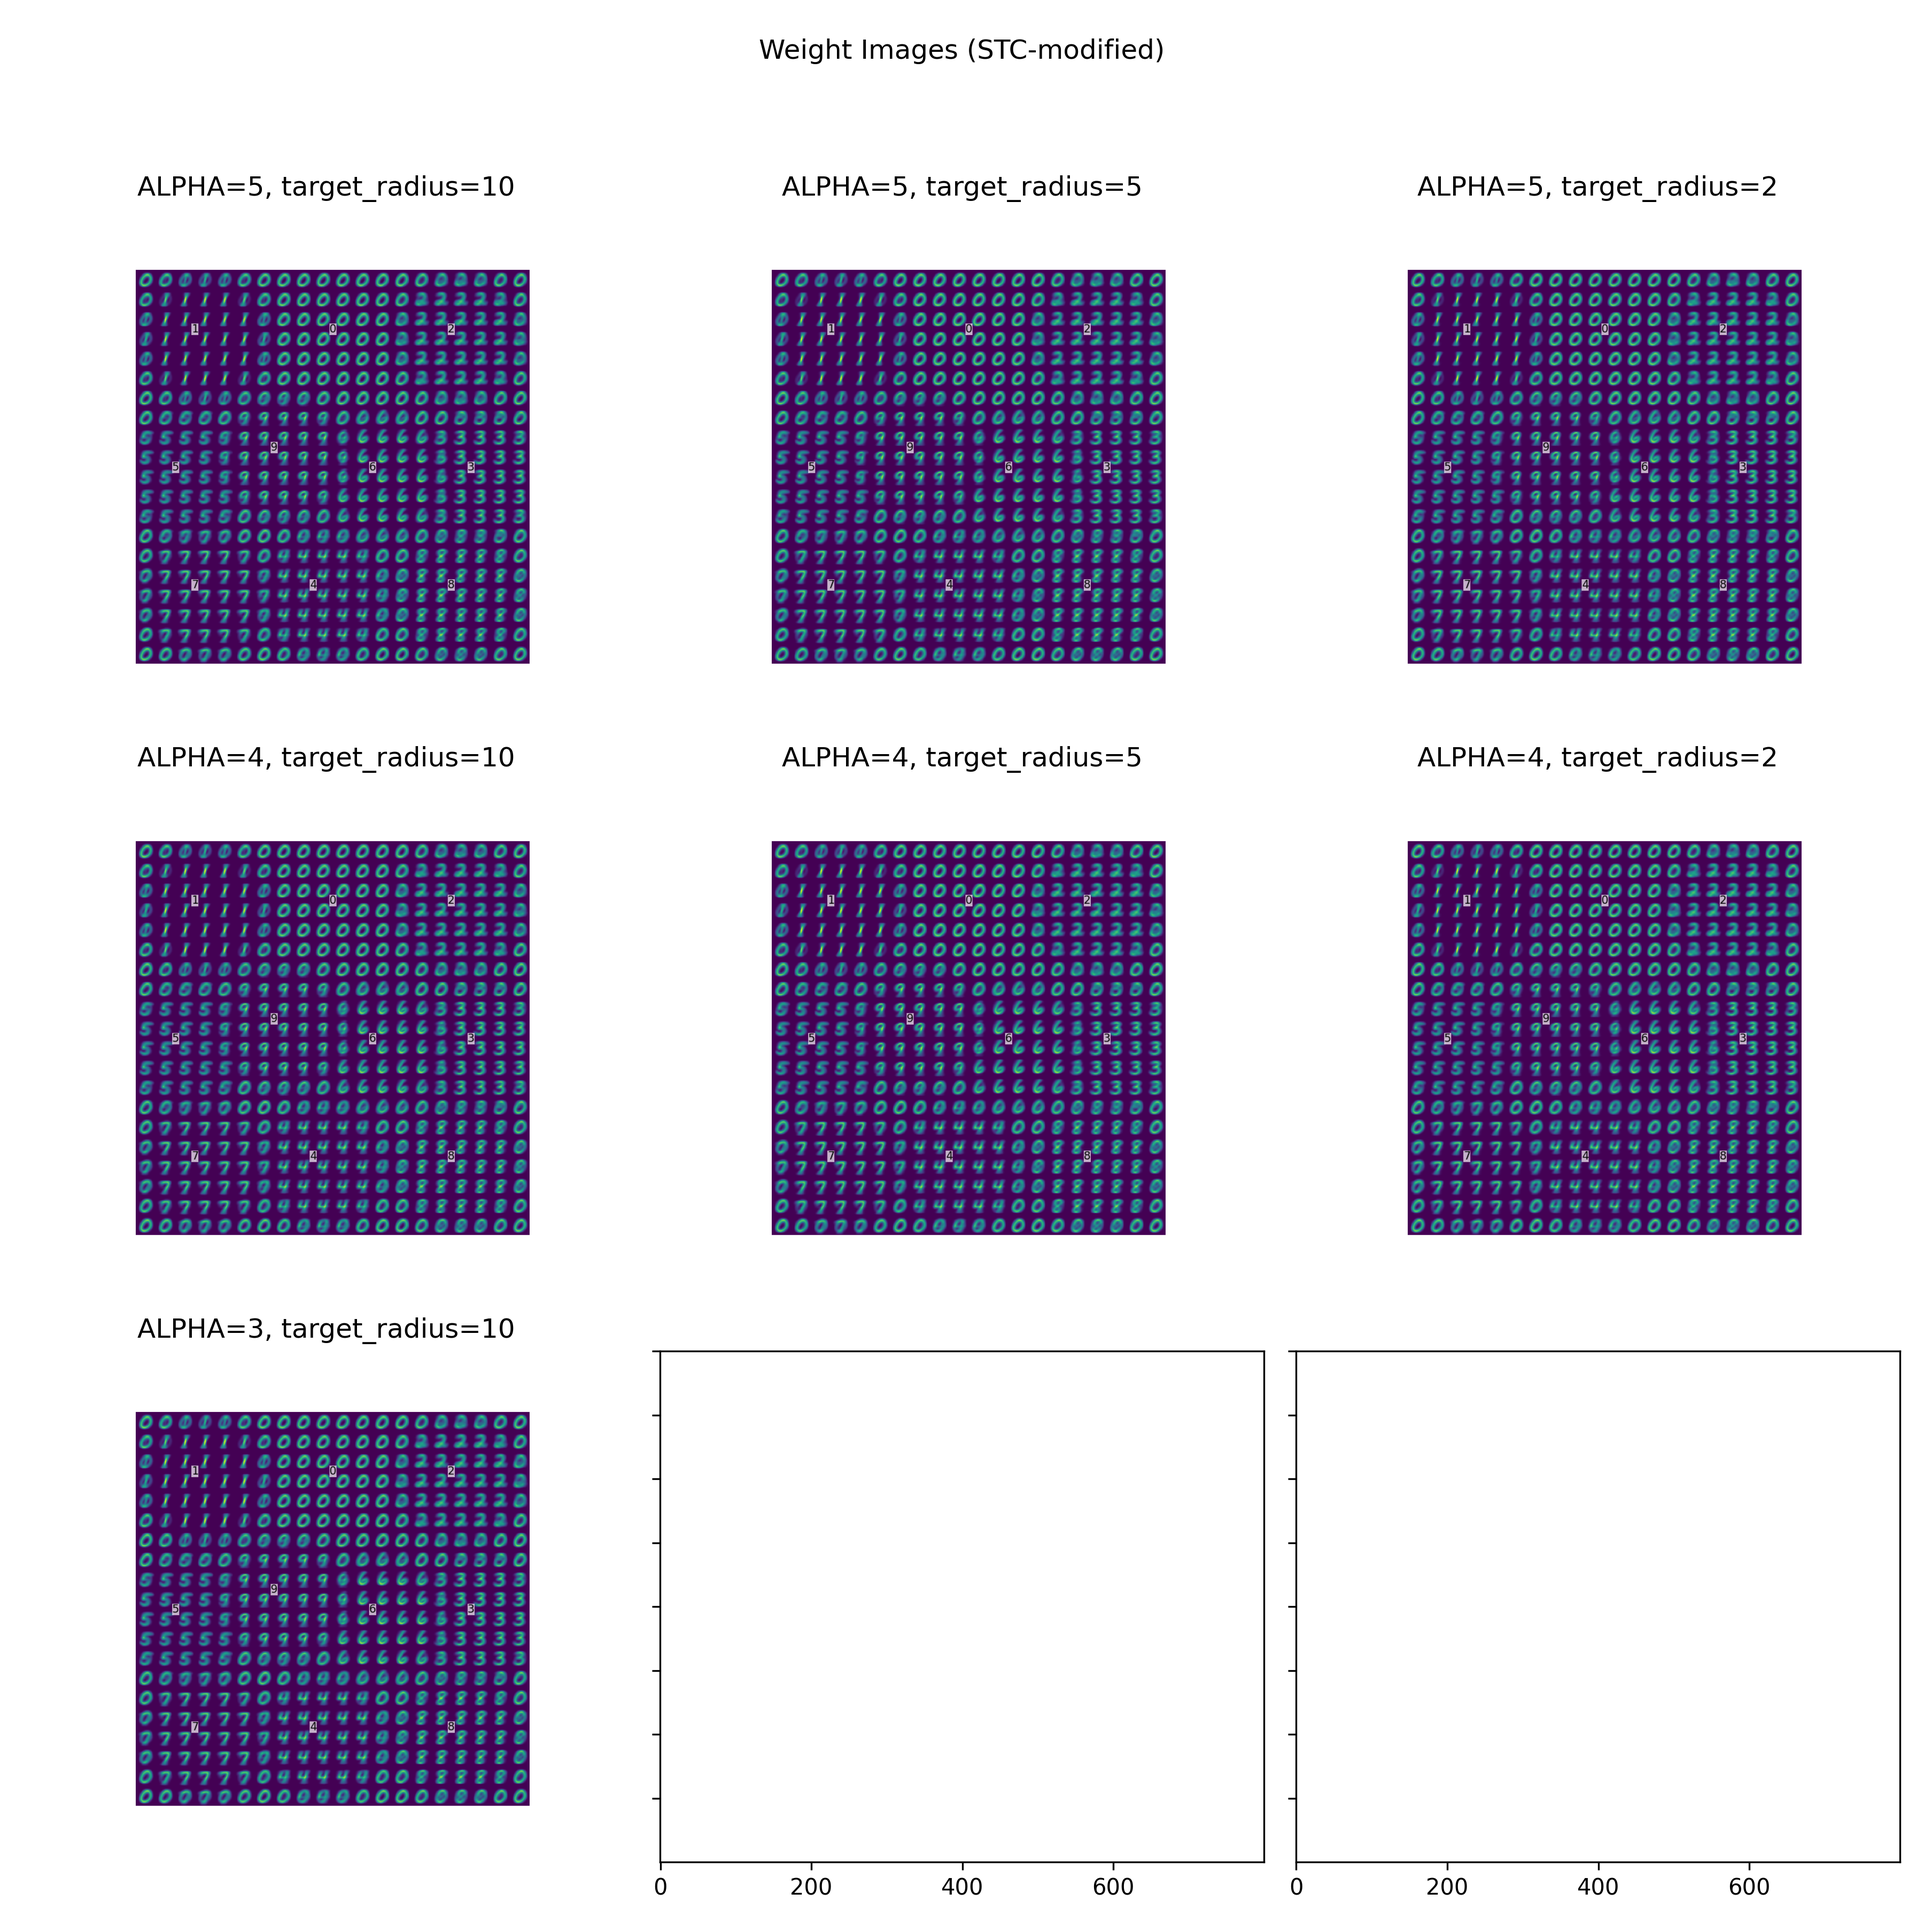
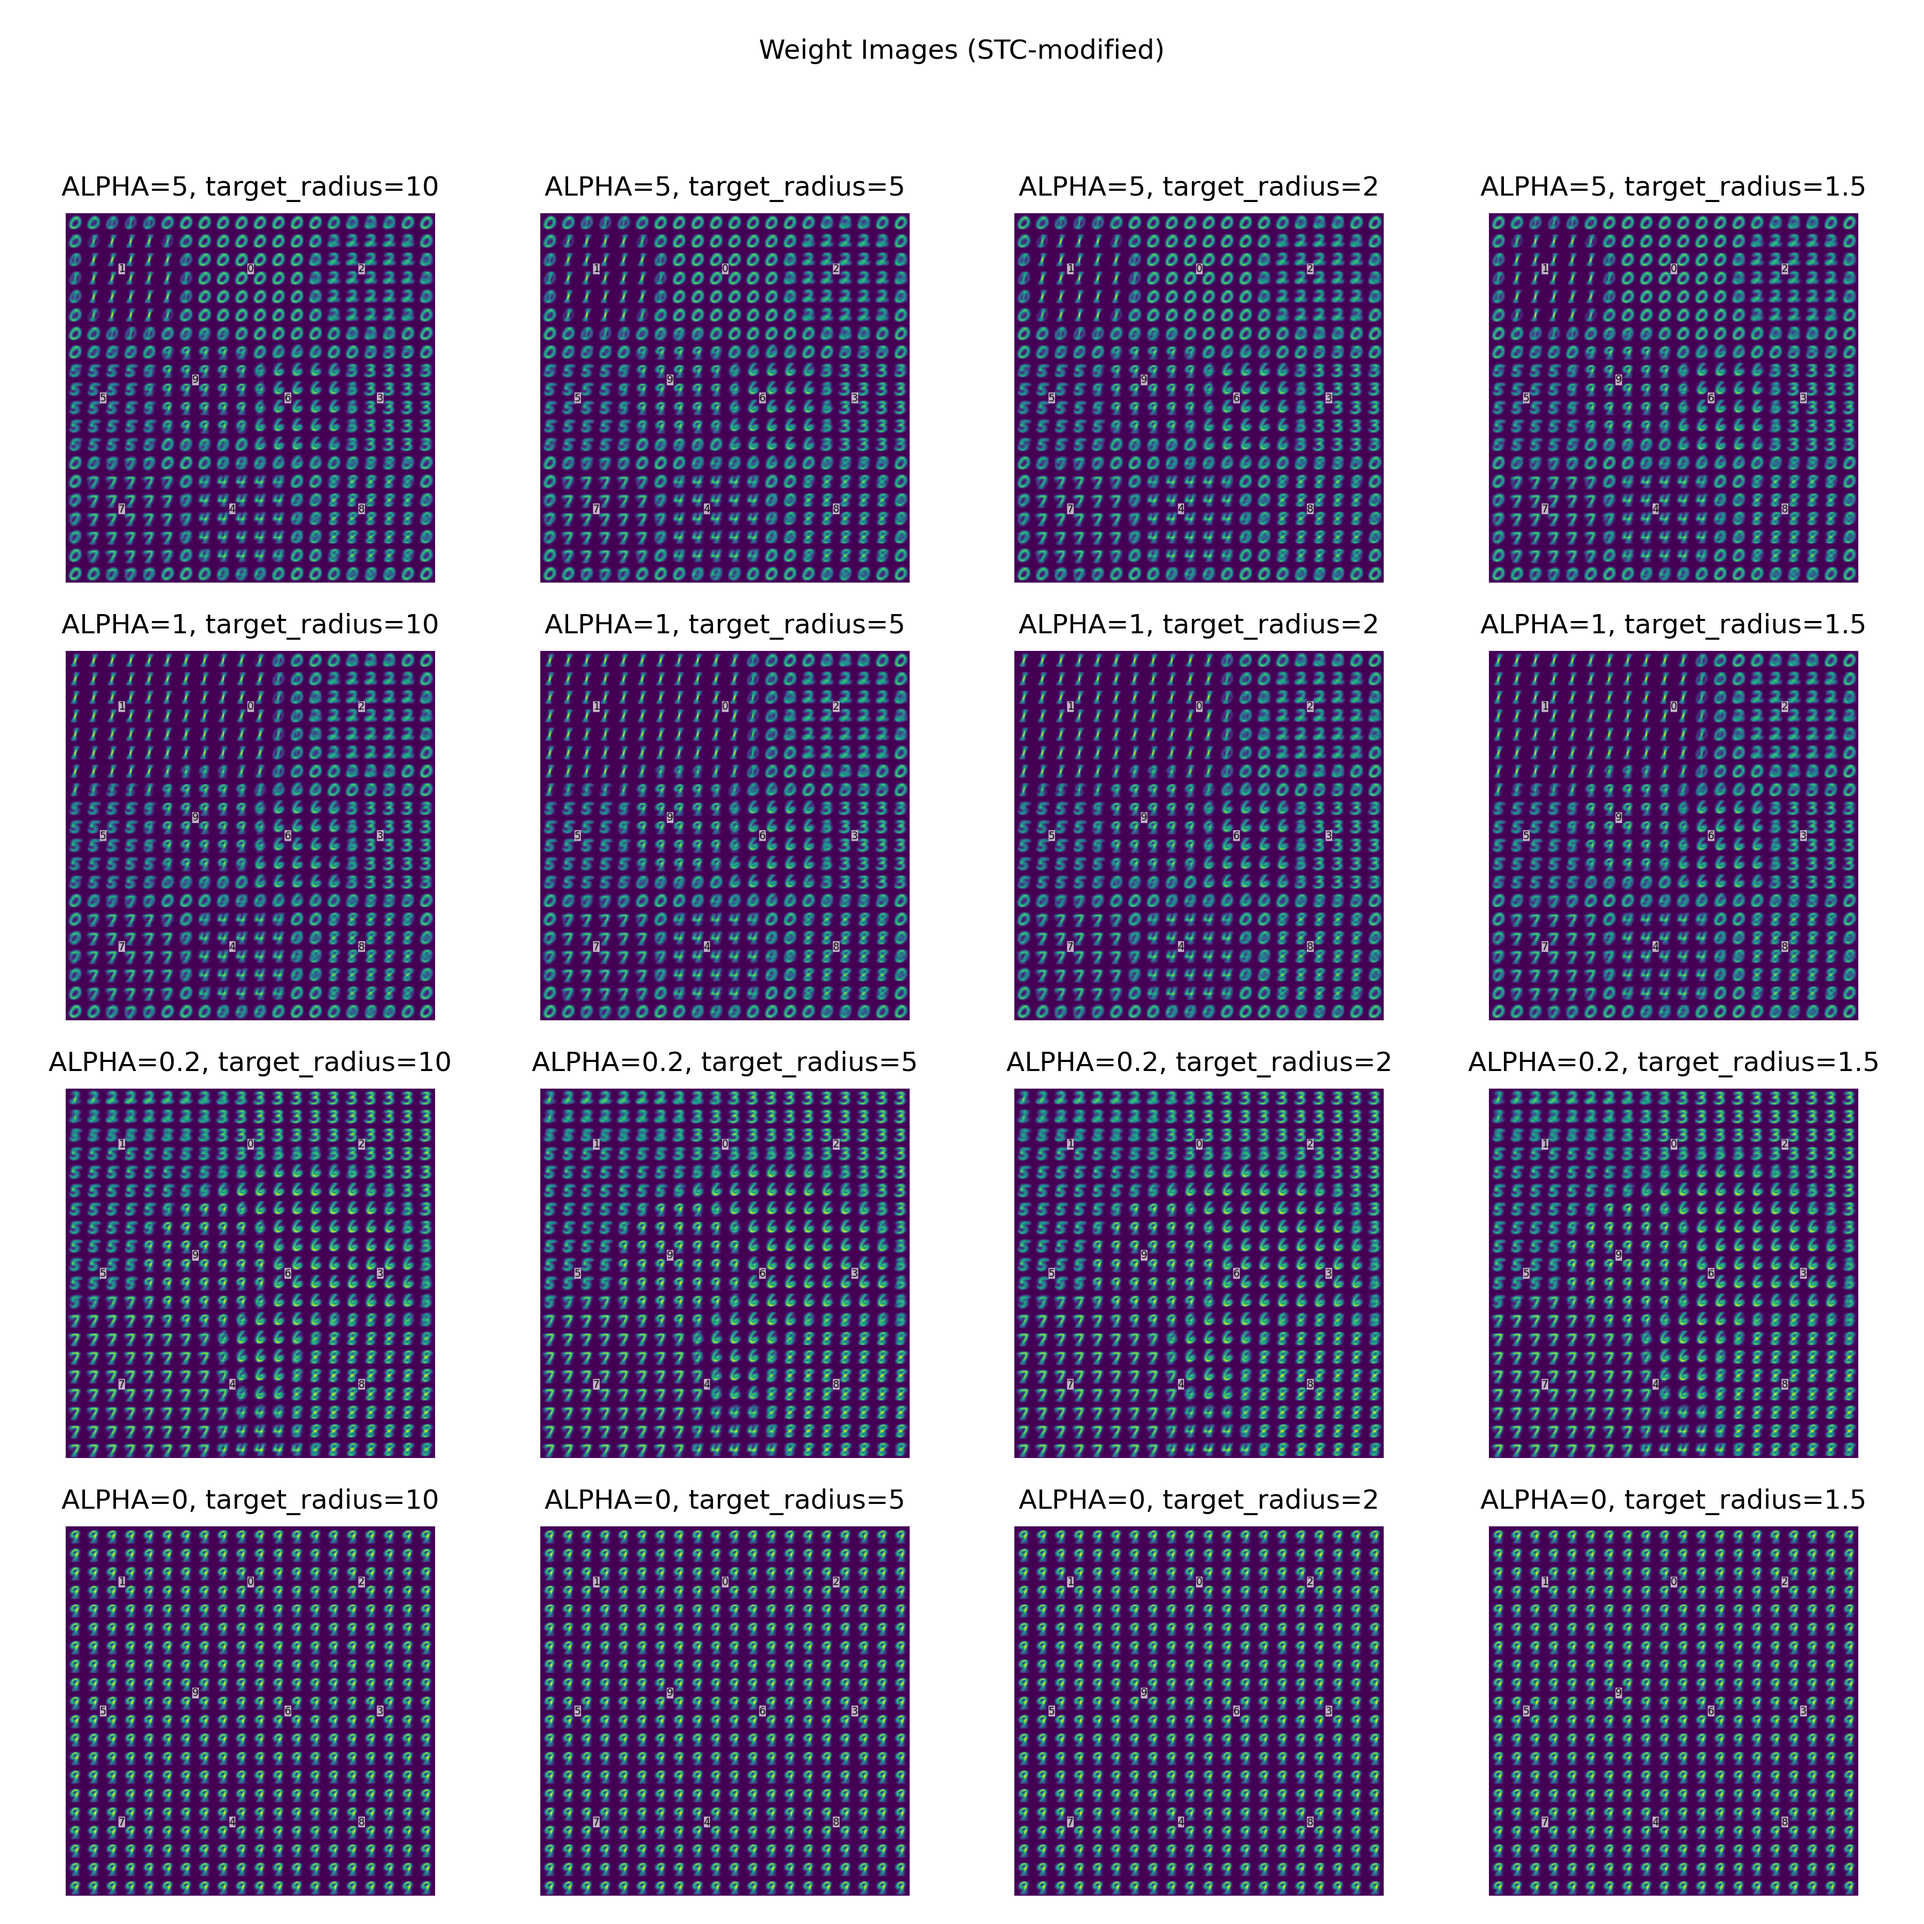
fixed loss normalization facto is zero

diff --git a/utils/trainer.py b/utils/trainer.py
@@ -280,10 +280,8 @@ class SOMTrainer():
 							target_dist = self.model.target_distance_batch(targets, radius=kwargs["target_radius"])
 							weight_function = torch.mul(neighbourhood_func, target_dist)
 							max_weight_function = torch.max(weight_function,1).values # (batch_size, som_dim)
-							if torch.max(max_weight_function)==0:
-								print("loss normalization zero everywhere")
-								if max(torch.sum(weight_function,1))==0:
-									print("also weight is 0")
+							if torch.min(max_weight_function)==0:
+								print("loss normalization contains zeros.")
 								continue
 							weight_function = torch.div(weight_function, max_weight_function.unsqueeze(1))
 						case "Base-STC":

diff --git a/create_image_grid.py b/create_image_grid.py
@@ -116,13 +116,13 @@ def create_image_grid(vars0, vars1):
 	return
 
 	
-MODE="STC-modified"
+MODE="Base"
 
 if __name__=="__main__":
-	vars0 = {"values": [5, 4, 3],  # 3 different alpha values
+	vars0 = {"values": [5, 1, 0.2, 0],  # 3 different alpha values
 			 "name": "ALPHA"}	  
 			
-	vars1 = {"values": [10, 5, 2],  # 3 different targed radius values
+	vars1 = {"values": [10, 5, 2, 1.5],  # 3 different targed radius values
 		  	"name": "target_radius"}	
 		
 	create_image_grid(vars0, vars1)
